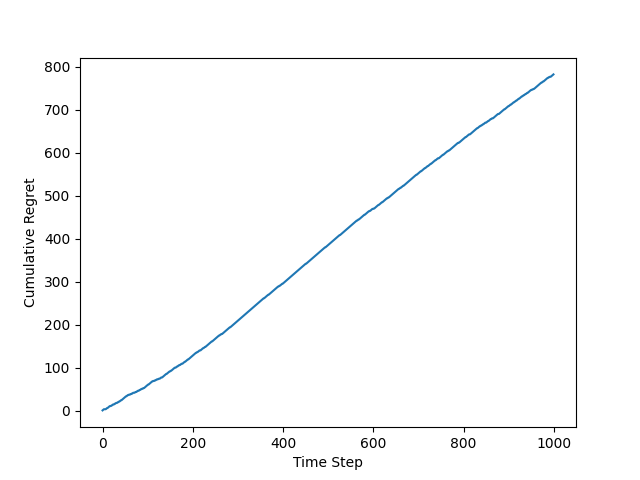
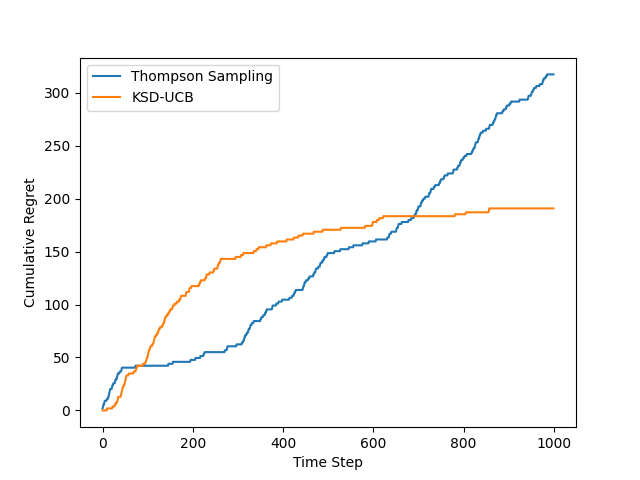
added files

diff --git a/sharpe_ratio_bandits.py b/sharpe_ratio_bandits.py
@@ -27,11 +27,11 @@ def gradient_gmm_parameters(weights, means, std, x):
 
 ### Algorithms
 ### Basic EM algorithm for Gaussian Mixtures
-def em_algorithm(samples,N_components = 2, N_iter = 100):
-    weights = np.random.dirichlet(np.ones(N_components))
-    means = np.random.normal(0,1,N_components)
-    variance = np.random.uniform(0.1,1,N_components)
-    print(samples)
+def em_algorithm(samples,parameters,N_components = 2, N_iter = 100):
+    weights = parameters[0]
+    means = parameters[1]
+    variance = parameters[2]
+    variance[variance==0] = 1e-6
     samples = np.array(samples)
     N_samples = samples.shape[0]
     for i in range(N_iter):
@@ -39,38 +39,47 @@ def em_algorithm(samples,N_components = 2, N_iter = 100):
         responsibilities = np.zeros((N_samples,N_components))
         for j in range(N_samples):
             for k in range(N_components):
+                
                 responsibilities[j,k] = weights[k]*np.exp(-0.5*(samples[j]-means[k])**2/variance[k])/np.sqrt(2*np.pi*variance[k])
+            
             responsibilities[j] /= np.sum(responsibilities[j])
-        ### M Step
+        
         N_k = np.sum(responsibilities,axis=0)
+        N_k[N_k==0] = 1e-6
         weights = N_k/N_samples
         means = np.sum(responsibilities*samples.reshape(-1,1),axis=0)/N_k
         variance = np.sum(responsibilities*(samples.reshape(-1,1)-means)**2,axis=0)/N_k
+        variance[(variance-0)<0.1] = 1e-1
     return weights, means, variance
 ### Thompson Sampling
-def thompson_sampling(samples,N_components = 2, N_iter = 100,N_arms=10):
+def thompson_sampling(samples,parameters,N_components = 2, N_iter = 100,N_arms=2):
     reward_samples = np.zeros(N_arms)
+    parameters_returned = []
     for i in range(N_arms):
-        weights, means, variance = em_algorithm(samples[i],N_components = N_components, N_iter = N_iter)
+        parameters_arm = parameters[i]
+       
+        weights, means, variance = em_algorithm(samples[i],parameters_arm,N_components = N_components, N_iter = N_iter)
+        parameters_returned.append([weights,means,variance])
         weight_sample = np.random.dirichlet(weights)
         mean_arms = np.random.normal(means,variance)
         mean_arm = np.random.normal(means,variance)
         reward_samples[i] = np.max(mean_arms/variance)
-    return np.argmax(reward_samples)
 
-def ksd_index(armSamples,lambda_):
+    return np.argmax(reward_samples),parameters_returned
+
+def ksd_index(armSamples,parameters,lambda_,time,):
     """
     :numSucs: samples of the arm
     """
     N_iter = 100
-    device = torch.device('mps')
+    device = torch.device('cpu')
     kernel_type = 'rbf' 
     h_method = 'dim'
     max_value = 0
     #### convert to tensor of type float32
     ### convert to float 
-    weights, means, variance = em_algorithm(armSamples,N_components = N_components, N_iter = N_iter)
-    print(armSamples,weights,means,variance)
+    weights, means, variance = em_algorithm(armSamples,parameters,N_components = N_components, N_iter = N_iter)
+    parameters_returned = [weights,means,variance]
     sharpe_ratio_estimate = np.max(np.divide(means,variance))
 
     weights = torch.from_numpy(weights).float().reshape(-1,1).to(device)
@@ -81,80 +90,92 @@ def ksd_index(armSamples,lambda_):
     gradients = gradient_gmm_parameters(weights,means,variance,armSamples).to(device)
    # gradients = torch.from_numpy(gradients).float().reshape(-1,1)
     ksd_value = get_KSD(armSamples, gradients, kernel_type, h_method).cpu().numpy()
+    return sharpe_ratio_estimate + lambda_*ksd_value*np.log(time+2),parameters_returned
 
-    return sharpe_ratio_estimate + lambda_*ksd_value
-
-def ksd_ucb(samples,lambda_):
+def ksd_ucb(samples,parameters,lambda_,time,N_arms =2):
     """
     :[i]: arm i
     :samples[i]: samples of arm i
     :lambda_: lambda value for KSD-UCB
     """
     ### Algorithm: 
-   
     ksd_indices = np.zeros(len(samples))
-    for i in range(len(samples)):
-        armSamples = samples[i]
+    parameters_returned_set = []
+    for i in range(N_arms):
 
+        armSamples = samples[i]
+        parameters_arm = parameters[i]
         ### Compute KSD
-        ksd_indices[i] = ksd_index(armSamples,lambda_)
-       
-        
-    return np.argmax(ksd_indices)
+        ksd_indices[i],parameters_returned = ksd_index(armSamples,parameters_arm,lambda_,time) 
+        parameters_returned_set.append(parameters_returned)
+    return np.argmax(ksd_indices),parameters_returned_set
 
 
 ### Gaussian Mixture Bandits
 N_arms = 2
 N_components = 2
 
-mean_mixtures = np.random.normal(0,1,(N_arms,N_components))
-variance_mixtures = np.random.uniform(0.1,1,(N_arms,N_components))
-weights = np.random.dirichlet(np.ones(N_components),N_arms)
-
-sharpe_ratios = compute_sharpe_ratio_mixture(mean_mixtures,variance_mixtures).reshape(-1,1)
-assert sharpe_ratios.shape == (N_arms,1)
-
-
-optimal_arm = np.argmax(sharpe_ratios)
-print(sharpe_ratios)
-print(optimal_arm, " is the optimal arm")
-
 ###
 T = 1000
 N_methods = 2
-regret = np.zeros((N_methods,T))
-total_data =[ [[] for i in range(N_arms)] for j in range(N_methods)]
-sample_max = 100
-for _ in range(N_arms):
-    for j in range(10):
-    
-        total_data[0][_].append(pull_arm(_,mean_mixtures,variance_mixtures,weights))
-        total_data[1][_].append(pull_arm(_,mean_mixtures,variance_mixtures,weights))
-for t in tqdm.tqdm(range(T)):
-    ### pull arm 10 times for each method
-    
-    arm = thompson_sampling(total_data[0],N_components = N_components, N_iter = 100,N_arms=N_arms)
-    reward = pull_arm(arm,mean_mixtures,variance_mixtures,weights)
-    regret[0,t] = np.max(sharpe_ratios) - sharpe_ratios[arm]
-    total_data[0][arm].append(reward)
-    for arm_idx in range(N_arms):
-        if len(total_data[0][arm_idx])>sample_max:
-            total_data[0][arm_idx] = list(np.random.choice(total_data[0][arm_idx],sample_max,replace=False))
+N_MC = 100
+regret = np.zeros((N_MC,N_methods,T))
 
-    arm = ksd_ucb(total_data[1],lambda_=0.1)
-    reward = pull_arm(arm,mean_mixtures,variance_mixtures,weights)
-    regret[1,t] = np.max(sharpe_ratios) - sharpe_ratios[arm]
-    total_data[1][arm].append(reward)
-    for arm_idx in range(N_arms):
-        if len(total_data[1][arm_idx])>sample_max:
-            total_data[1][arm_idx] = list(np.random.choice(total_data[1][arm_idx],sample_max,replace=False))
+RUN_EXP = 1
+if RUN_EXP:
+    for mc in range(N_MC):
+
+        mean_mixtures = np.random.normal(0,1,(N_arms,N_components))
+        variance_mixtures = np.random.uniform(0.1,1,(N_arms,N_components))
+        weights = np.random.dirichlet(np.ones(N_components),N_arms)
+
+        sharpe_ratios = compute_sharpe_ratio_mixture(mean_mixtures,variance_mixtures).reshape(-1,1)
+        assert sharpe_ratios.shape == (N_arms,1)
 
 
+        optimal_arm = np.argmax(sharpe_ratios)
+        print(sharpe_ratios)
+        print(optimal_arm, " is the optimal arm")
 
-cumulative_regret = np.cumsum(regret,axis=1)
+        total_data =[ [[] for i in range(N_arms)] for j in range(N_methods)]
+        sample_max = 10
+        weights = np.random.dirichlet(np.ones(N_components),N_arms)
+        mean_mixtures = np.random.normal(0,1,(N_arms,N_components))
+        variance_mixtures = np.random.uniform(0.1,1,(N_arms,N_components))
+        parameters_thompson = [ [weights[:,_],mean_mixtures[_],variance_mixtures[_]] for _ in range(N_arms)]
+        parameters_ksd = [ [weights[:,_],mean_mixtures[_],variance_mixtures[_]] for _ in range(N_arms)]
+        for _ in range(N_arms):
+            for j in range(10):
+            
+                total_data[0][_].append(pull_arm(_,mean_mixtures,variance_mixtures,weights))
+                total_data[1][_].append(pull_arm(_,mean_mixtures,variance_mixtures,weights))
+        for t in tqdm.tqdm(range(T)):
+            ### pull arm 10 times for each method
+            
+            arm,parameters_thompson = thompson_sampling(total_data[0],parameters_thompson,N_components = N_components, N_iter = 100,N_arms=N_arms)
+            reward = pull_arm(arm,mean_mixtures,variance_mixtures,weights)
+            regret[mc,0,t] = np.max(sharpe_ratios) - sharpe_ratios[arm]
+            total_data[0][arm].append(reward)
+            for arm_idx in range(N_arms):
+                if len(total_data[0][arm_idx])>sample_max:
+                    total_data[0][arm_idx] = total_data[0][arm_idx][-sample_max:]
+
+            arm,parameters_ksd = ksd_ucb(total_data[1],parameters_ksd,lambda_=0.1,time = t)
+            reward = pull_arm(arm,mean_mixtures,variance_mixtures,weights)
+            regret[mc,1,t] = np.max(sharpe_ratios) - sharpe_ratios[arm]
+            total_data[1][arm].append(reward)
+            for arm_idx in range(N_arms):
+                if len(total_data[1][arm_idx])>sample_max:
+                    total_data[1][arm_idx] = total_data[1][arm_idx][-sample_max:]
+    np.save("parameters/regret_sharperatio.npy",regret)
+
+regret = np.load("parameters/regret_sharperatio.npy")
+
+cumulative_regret = np.cumsum(regret.mean(axis=0),axis=1)
 plt.figure()
 plt.plot(np.arange(T), cumulative_regret[0],label="Thompson Sampling")
 plt.plot(np.arange(T), cumulative_regret[1],label="KSD-UCB")
+plt.legend()
 plt.xlabel("Time Step")
 plt.ylabel("Cumulative Regret")
 plt.savefig("plots/cumulative_regret_sharperatio.png")
